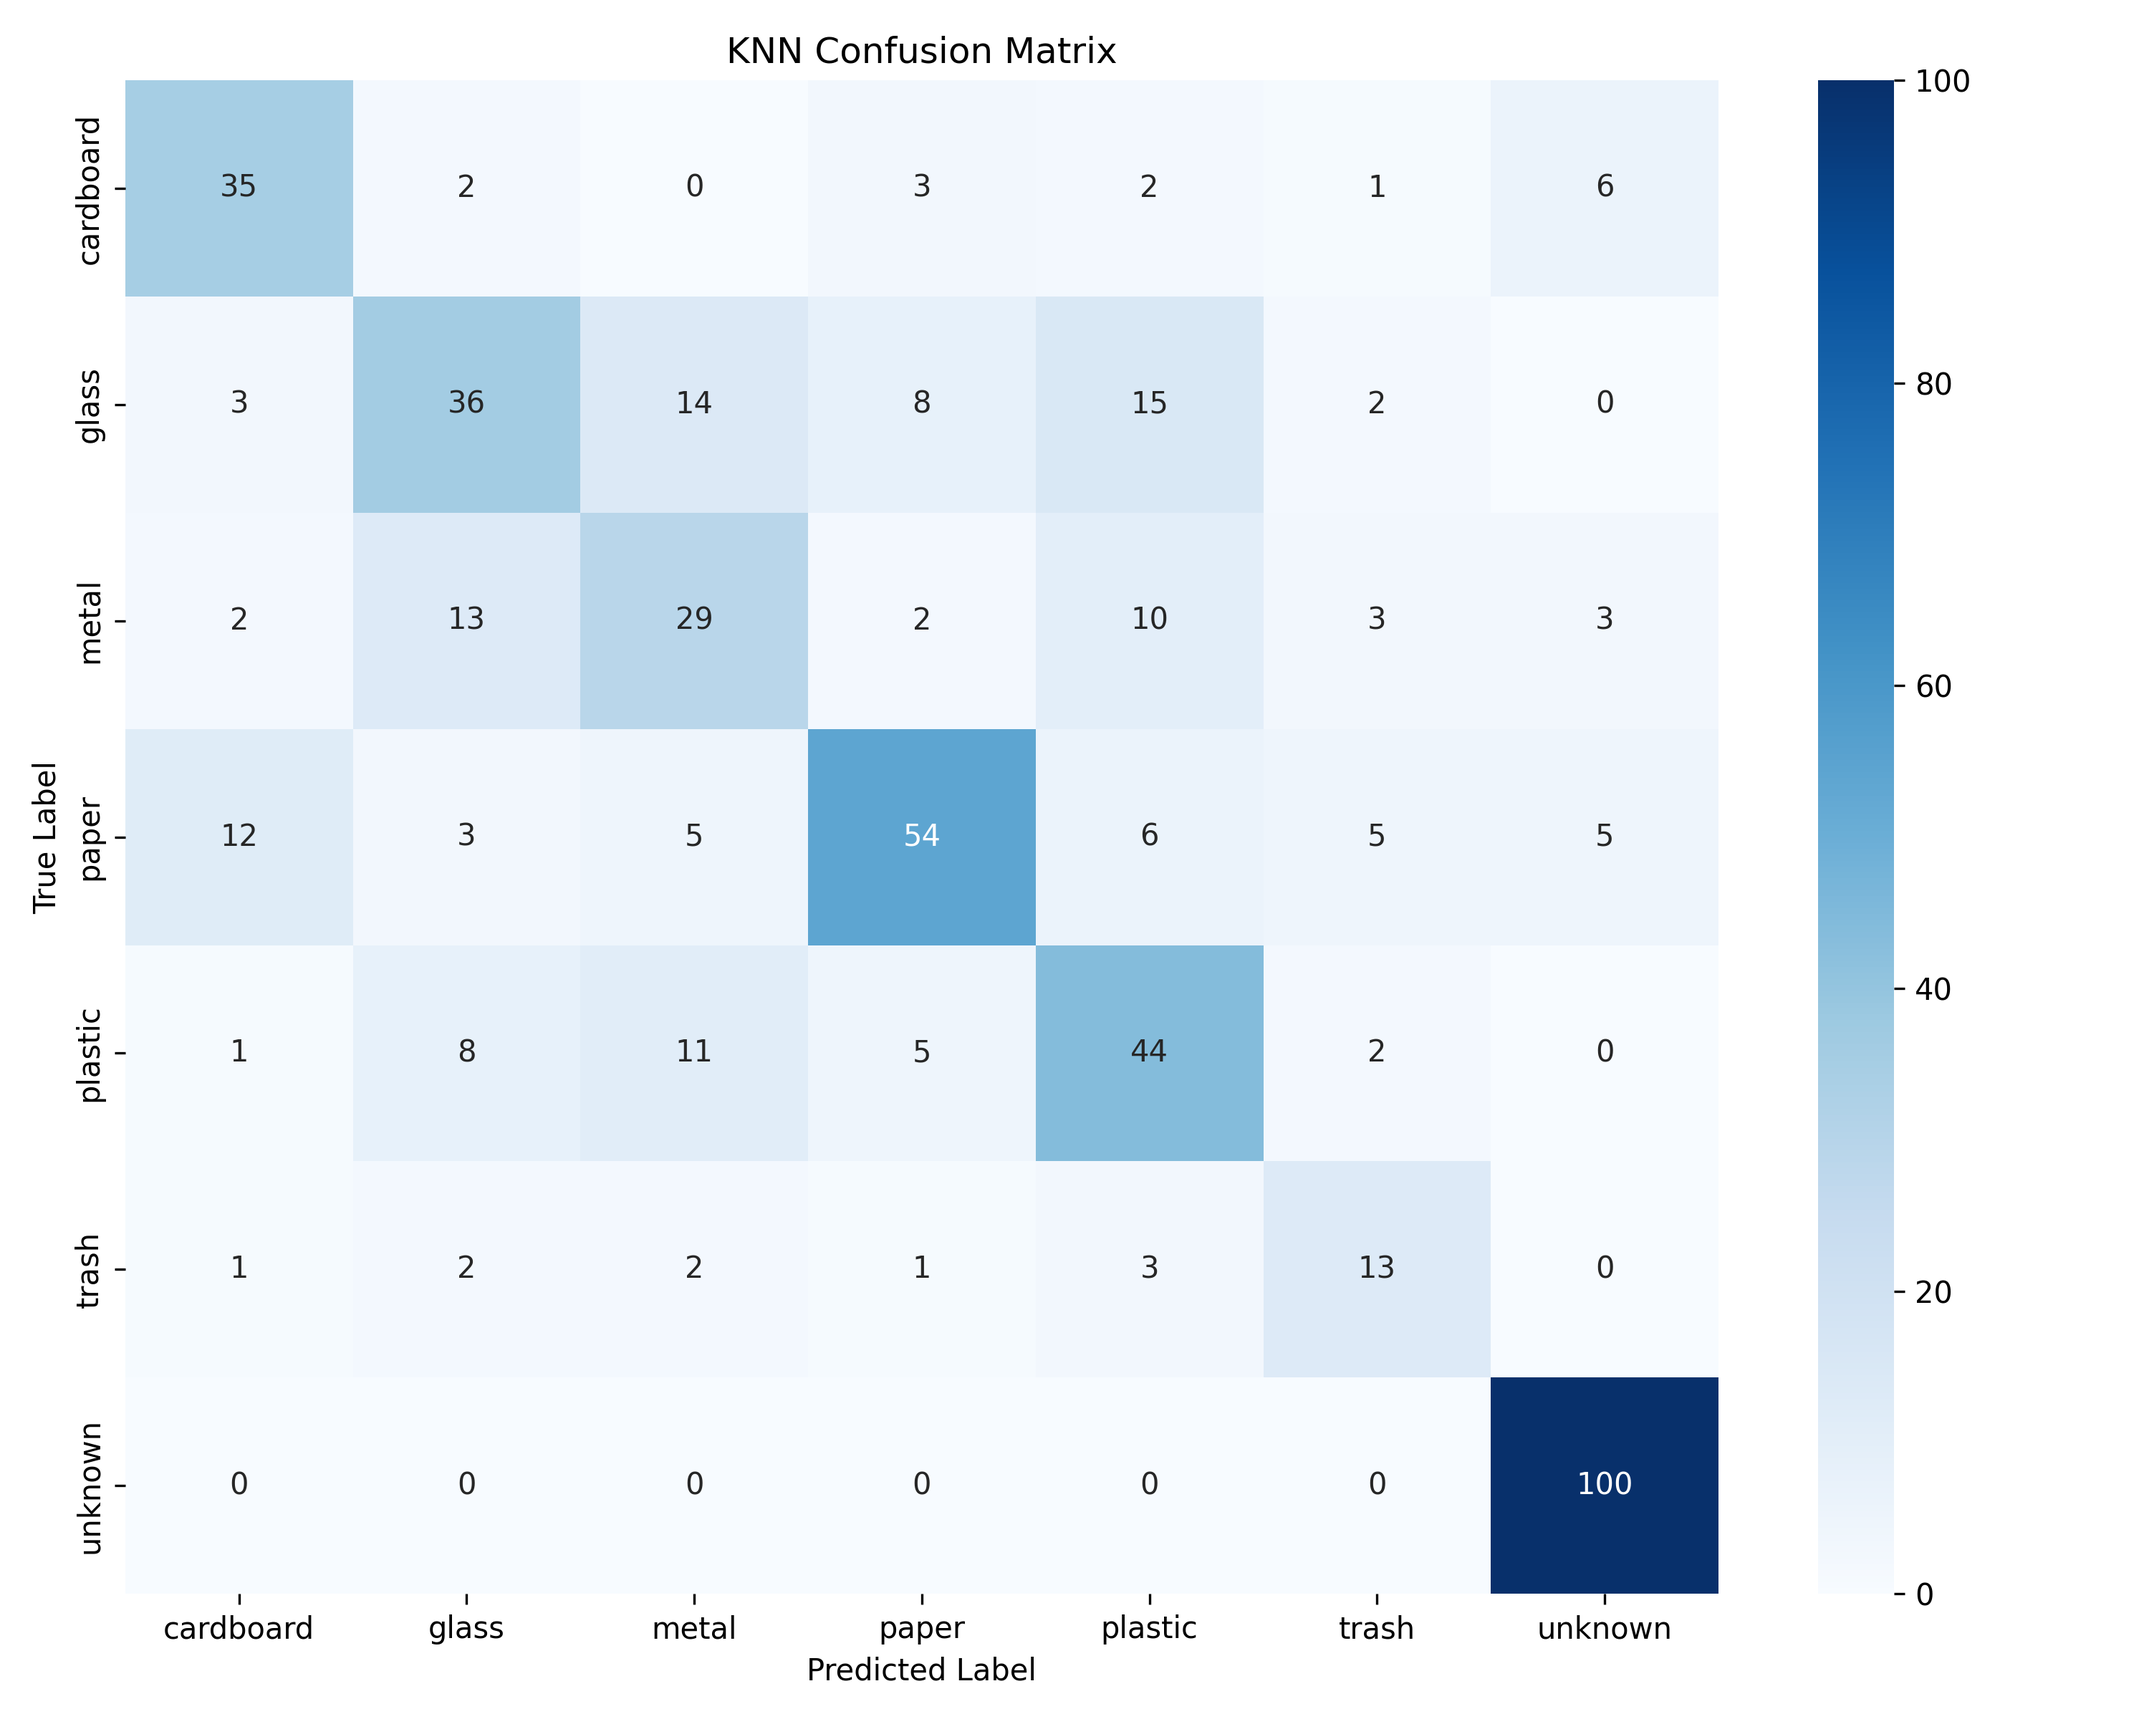
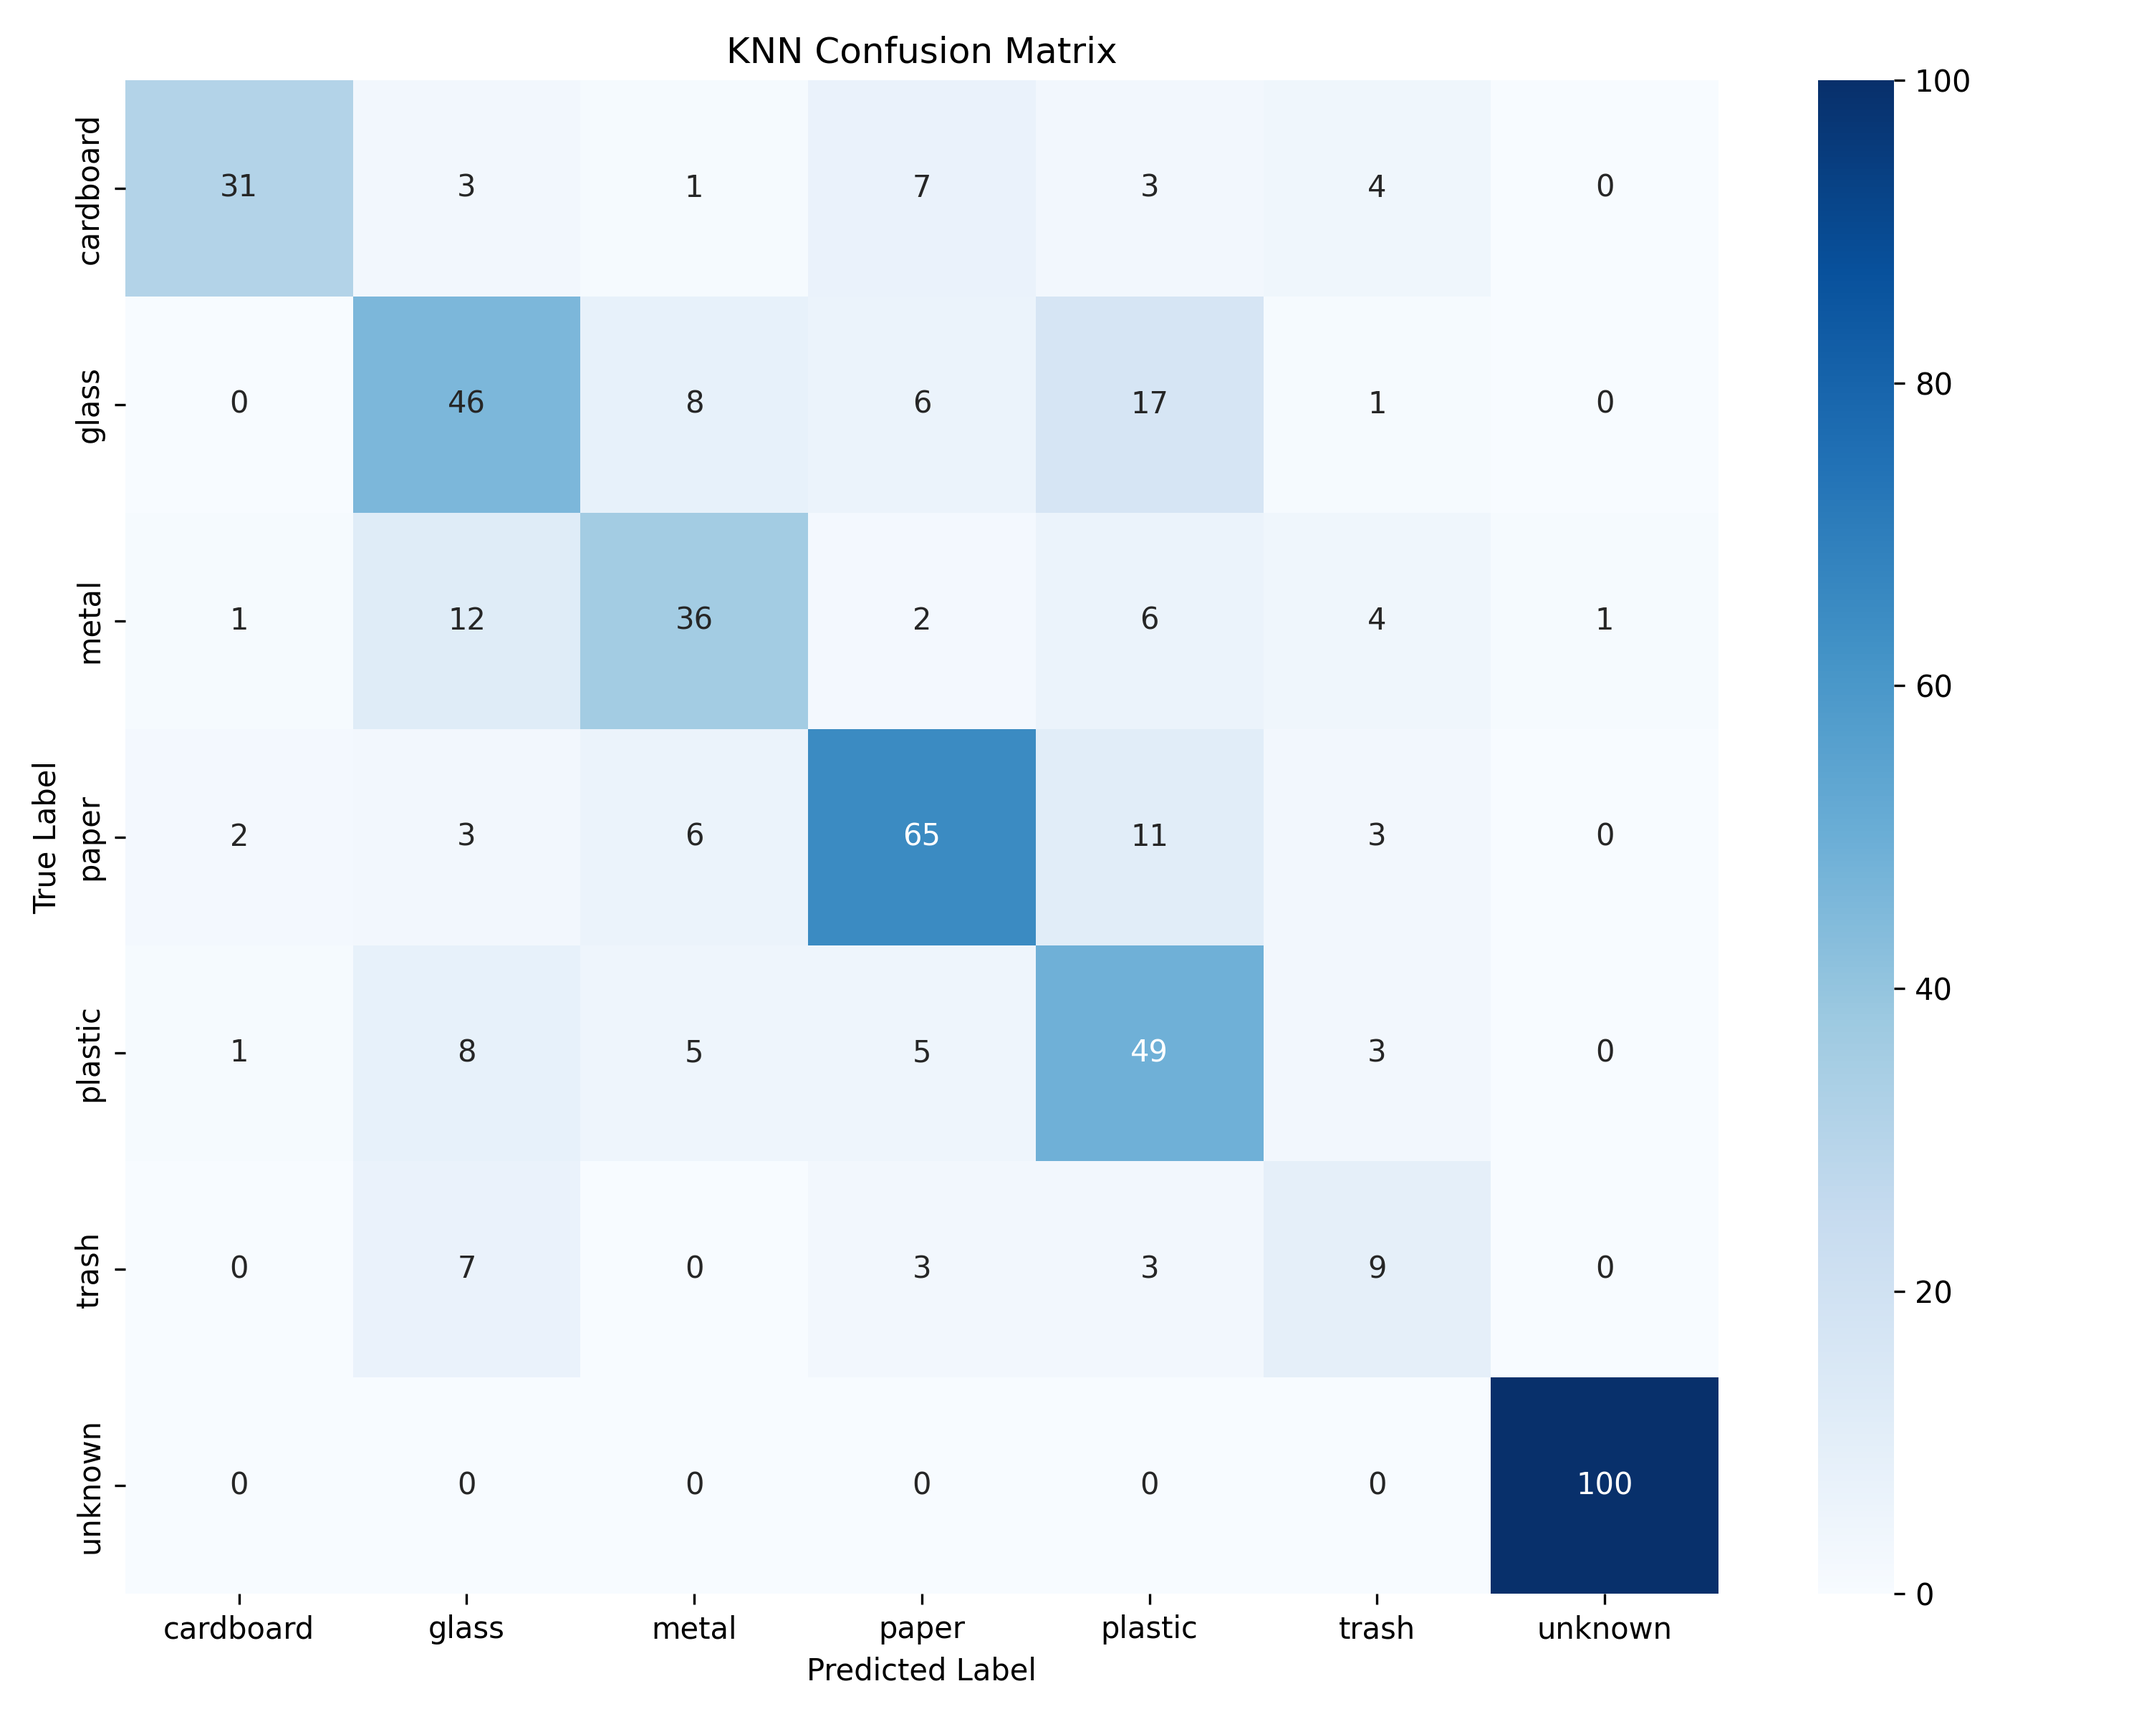
Update README

diff --git a/README.md b/README.md
@@ -174,12 +174,8 @@ Current saved-model results from the repository artifacts:
 
 | Model | All-class Accuracy | All-class Macro F1 | Known-class Accuracy |
 |---|---:|---:|---:|
-| SVM | 0.8242 | 0.7972 | 0.7769 |
-| k-NN | 0.7542 | 0.7024 | 0.6882 |
-
-### Important note
-
-The assignment PDF requires at least **0.85 validation accuracy on the primary six classes**. Based on the current artifacts, the project is **close structurally but does not meet that accuracy threshold yet**.
+| SVM | 0.7903 | 0.7606 | 0.76 |
+| k-NN | 0.7119 | 0.6662 | 0.67 |
 
 ---
 
